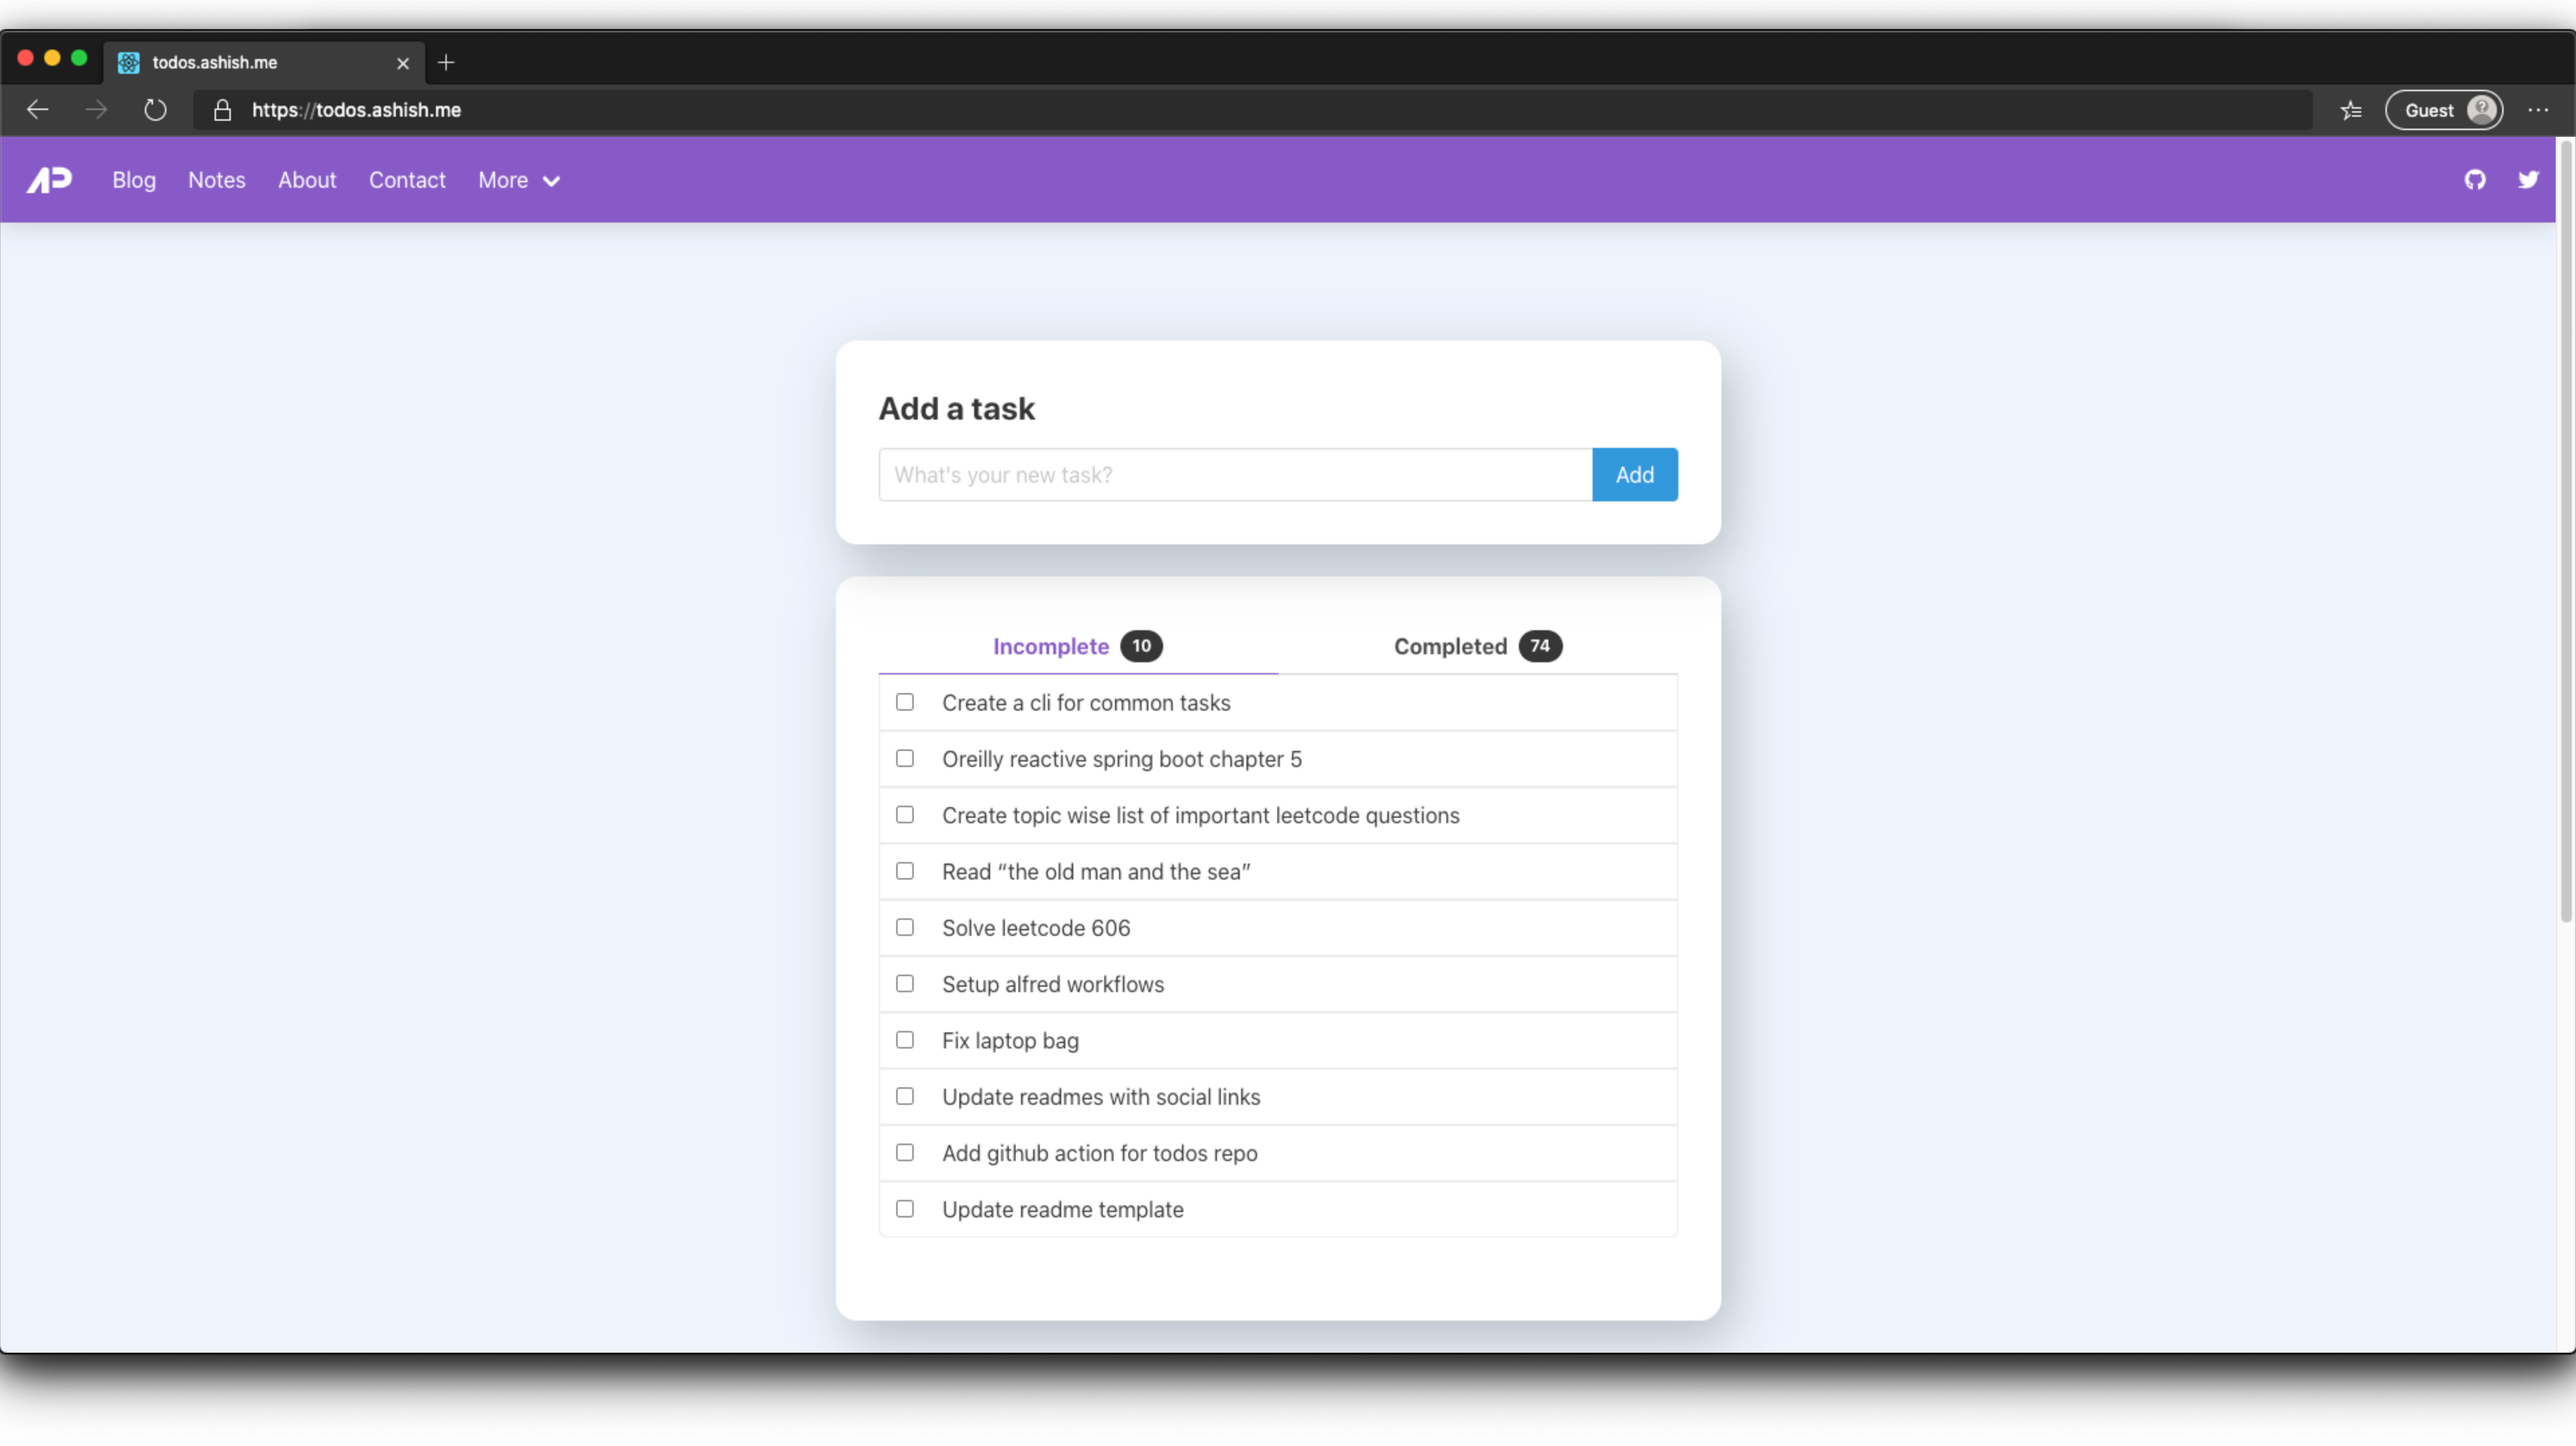
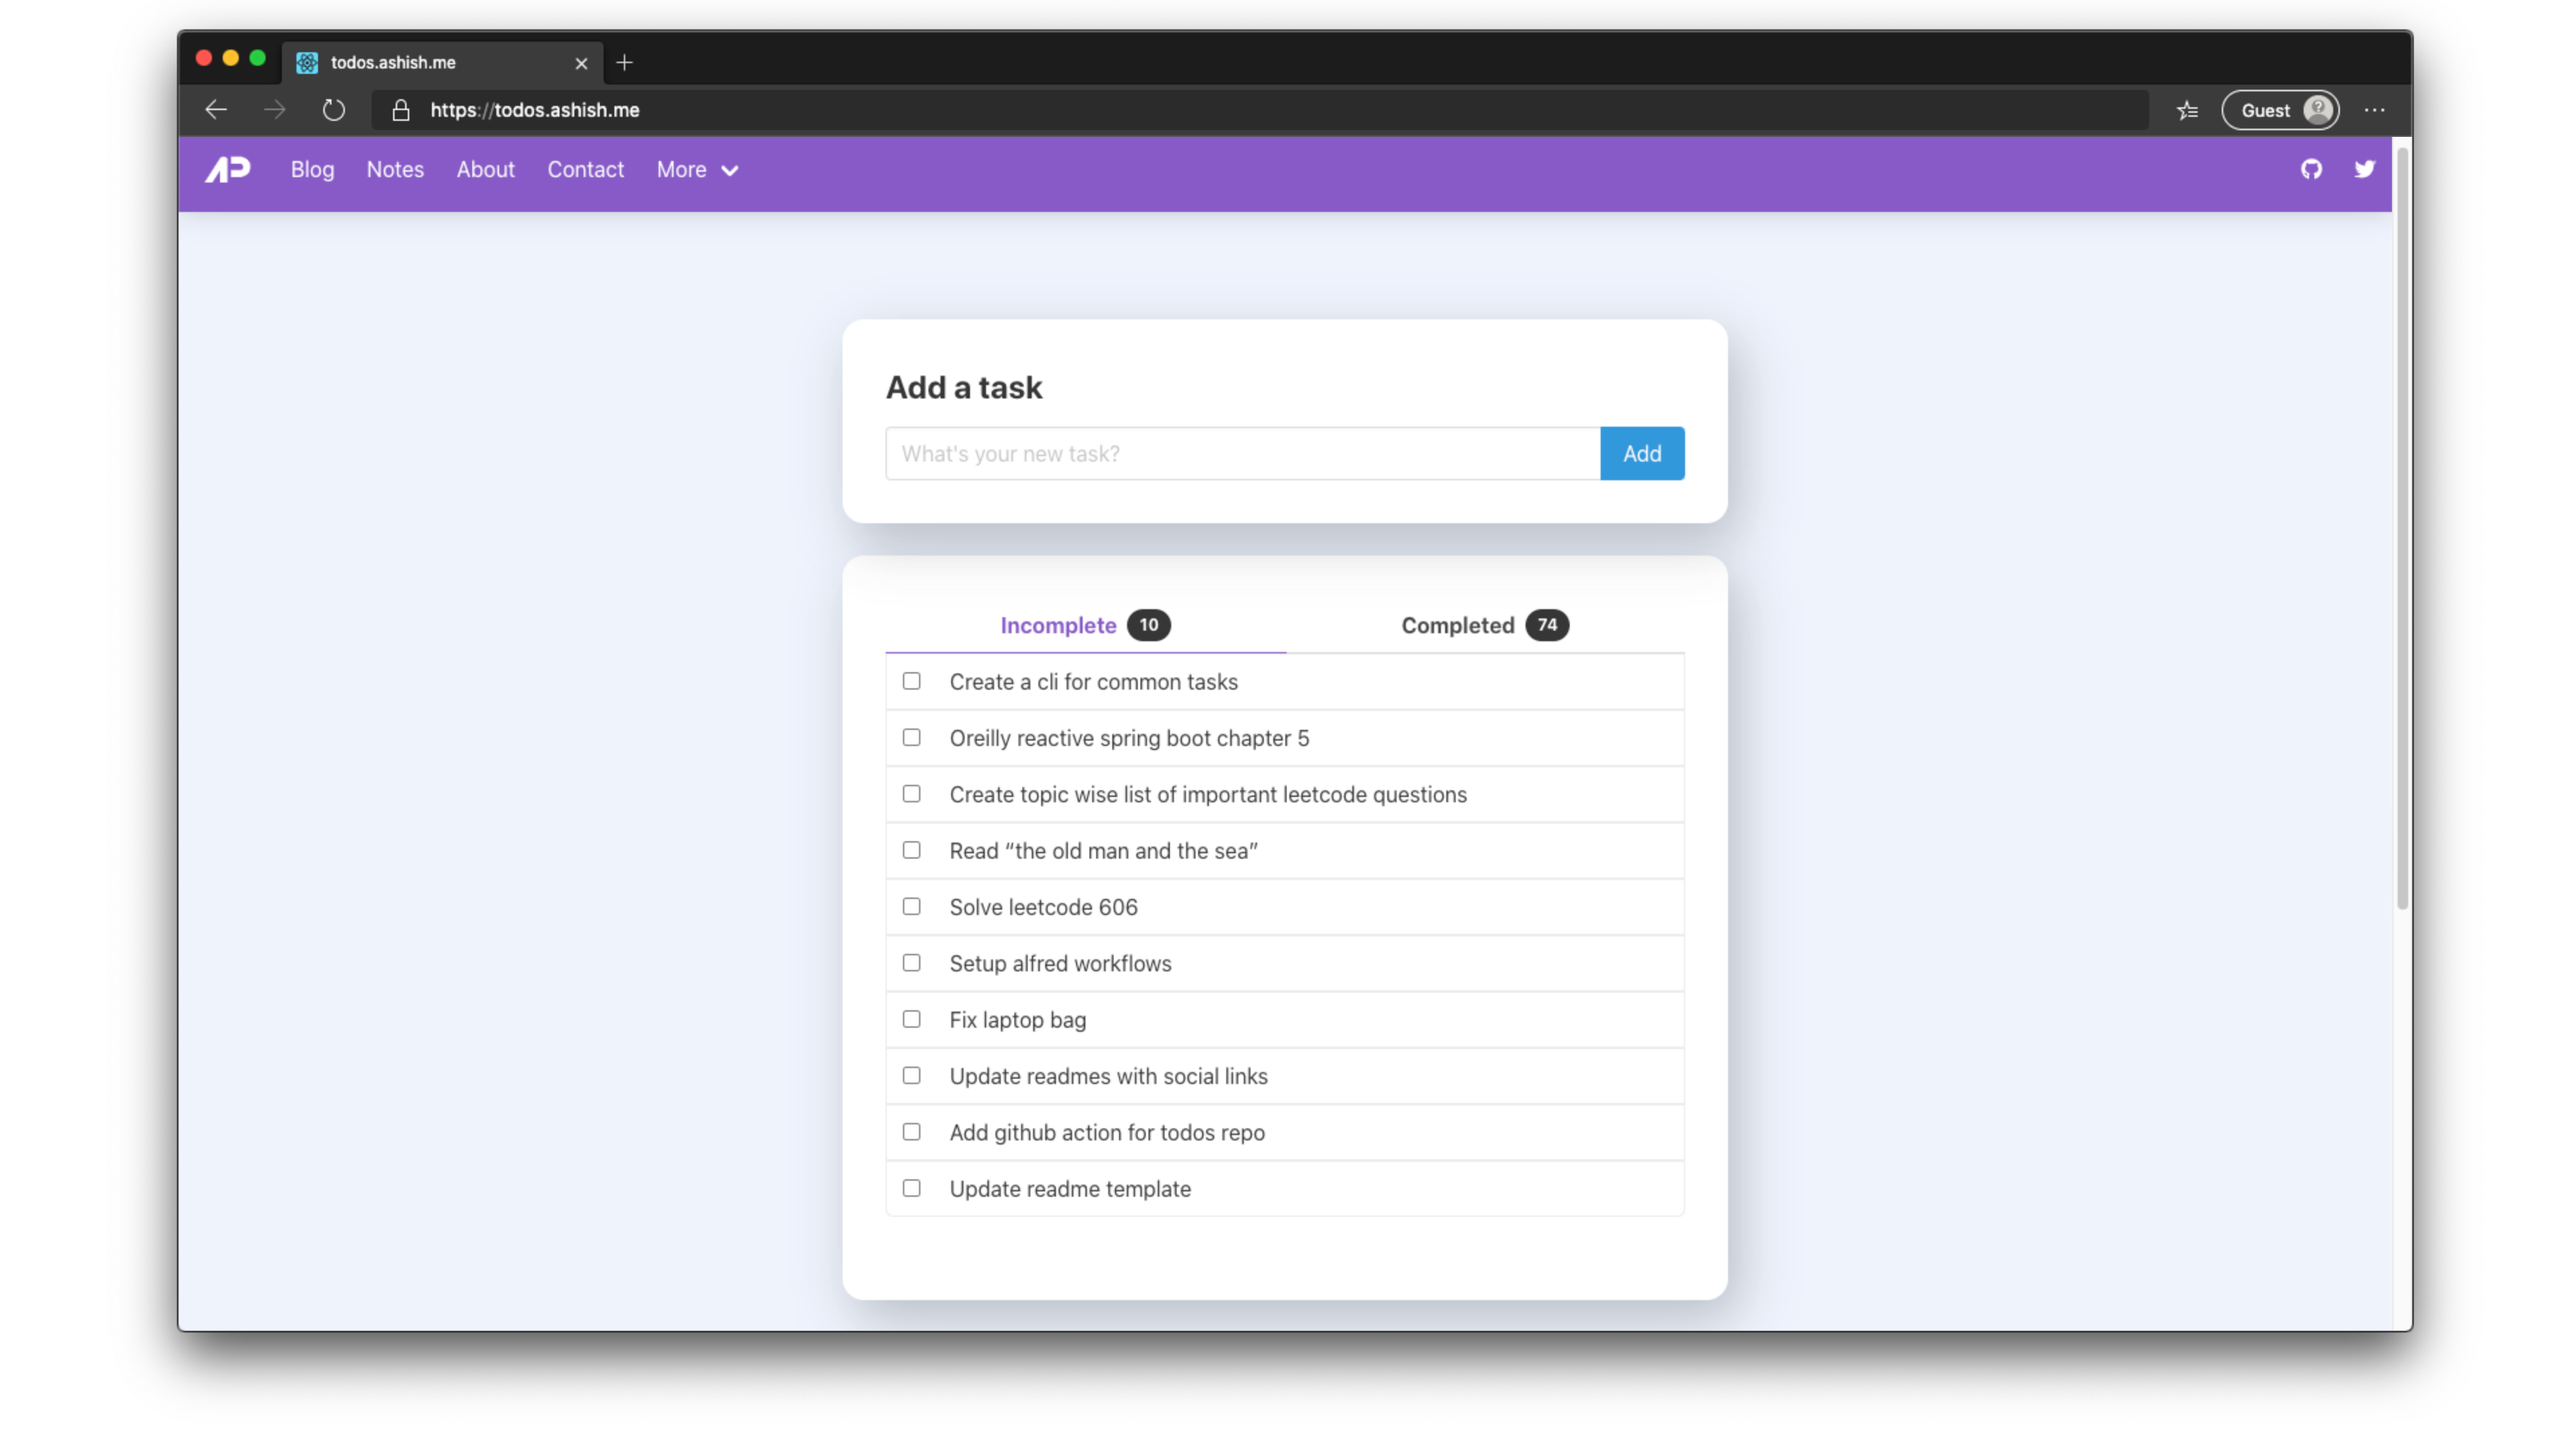
feat: update readme generator

Changed region(s): [[0.0, 0.0, 1.0, 0.994], [0.3125, 0.2174, 0.6875, 0.8387]]

diff --git a/src/styles/home.scss b/src/styles/home.scss
@@ -6,6 +6,10 @@
   box-shadow: none;
 }
 
+.hero-body {
+  padding: 1rem;
+}
+
 .panel-block {
   border: 1px solid #ededed !important;
 }
@@ -37,7 +41,7 @@
 .column {
   & .box {
     border-radius: 1rem;
-    padding: 2rem 2rem 2rem 2rem;
+    padding: 1rem 1rem 1rem 1rem;
     box-shadow: 8px 14px 38px rgba(39, 44, 49, .3);
   }
 

diff --git a/build_readme.py b/build_readme.py
@@ -42,9 +42,10 @@ def fetch_todos():
 
     for todo in todos:
         if not todo['completed']:
-          tasks.append(todo)
+            tasks.append(todo)
 
     return tasks[::-1]
+
 
 def fetch_completed():
     url = "https://api.prod.ashish.me/todos".format(
@@ -75,12 +76,17 @@ if __name__ == "__main__":
     )
     rewritten = replace_chunk(readme_contents, "todos", todos_md)
 
-    completed = fetch_completed()[:15]
+    completed = sorted(
+        fetch_completed(),
+        key=lambda x: datetime.fromisoformat(x["completedDate"].split("T")[
+                                            0]), reverse=True
+    )[:15]
     completed_md = "\n".join(
         [
             "* {title} - *{date}*".format(
                 title=todo["content"].strip().capitalize(),
-                date=datetime.fromisoformat(todo["completedDate"].split("T")[0]).strftime("%b %d %Y")
+                date=datetime.fromisoformat(todo["completedDate"].split("T")[
+                                            0]).strftime("%b %d %Y")
             )
             for todo in completed
         ]

diff --git a/README.md b/README.md
@@ -34,17 +34,17 @@
 <!-- completed starts -->
 * Clean up personal bot - *Dec 26 2020*
 * Get clothes from laundry - *Dec 26 2020*
+* Order eggs - *Dec 26 2020*
+* Rewrite the process api using next.js - *Dec 26 2020*
+* Add defer option for tasks - *Dec 26 2020*
+* Pay american express bill for term insurance premium fee - *Dec 26 2020*
+* Generate index of all the courses i have done - *Dec 26 2020*
+* Throw trash - *Dec 26 2020*
 * Order chaipatti, ginger, butter - *Dec 18 2020*
 * Get water can - *Dec 18 2020*
 * Do laundry - *Dec 13 2020*
-* Order eggs - *Dec 26 2020*
-* Rewrite the process api using next.js - *Dec 26 2020*
-* Solve leetcode 653 - *Dec 11 2020*
-* Buy plate, cup, strainer - *Dec 07 2020*
 * Print aadhar card - *Dec 13 2020*
 * Get esim - *Dec 13 2020*
-* Add defer option for tasks - *Dec 26 2020*
-* Order from bigbasket - *Dec 06 2020*
-* Spring boot chapter 5 - *Oct 25 2020*
-* Spring boot chapter 4 - *Oct 24 2020*
+* Solve leetcode 653 - *Dec 11 2020*
+* Buy plate, cup, strainer - *Dec 07 2020*
 <!-- completed ends -->
